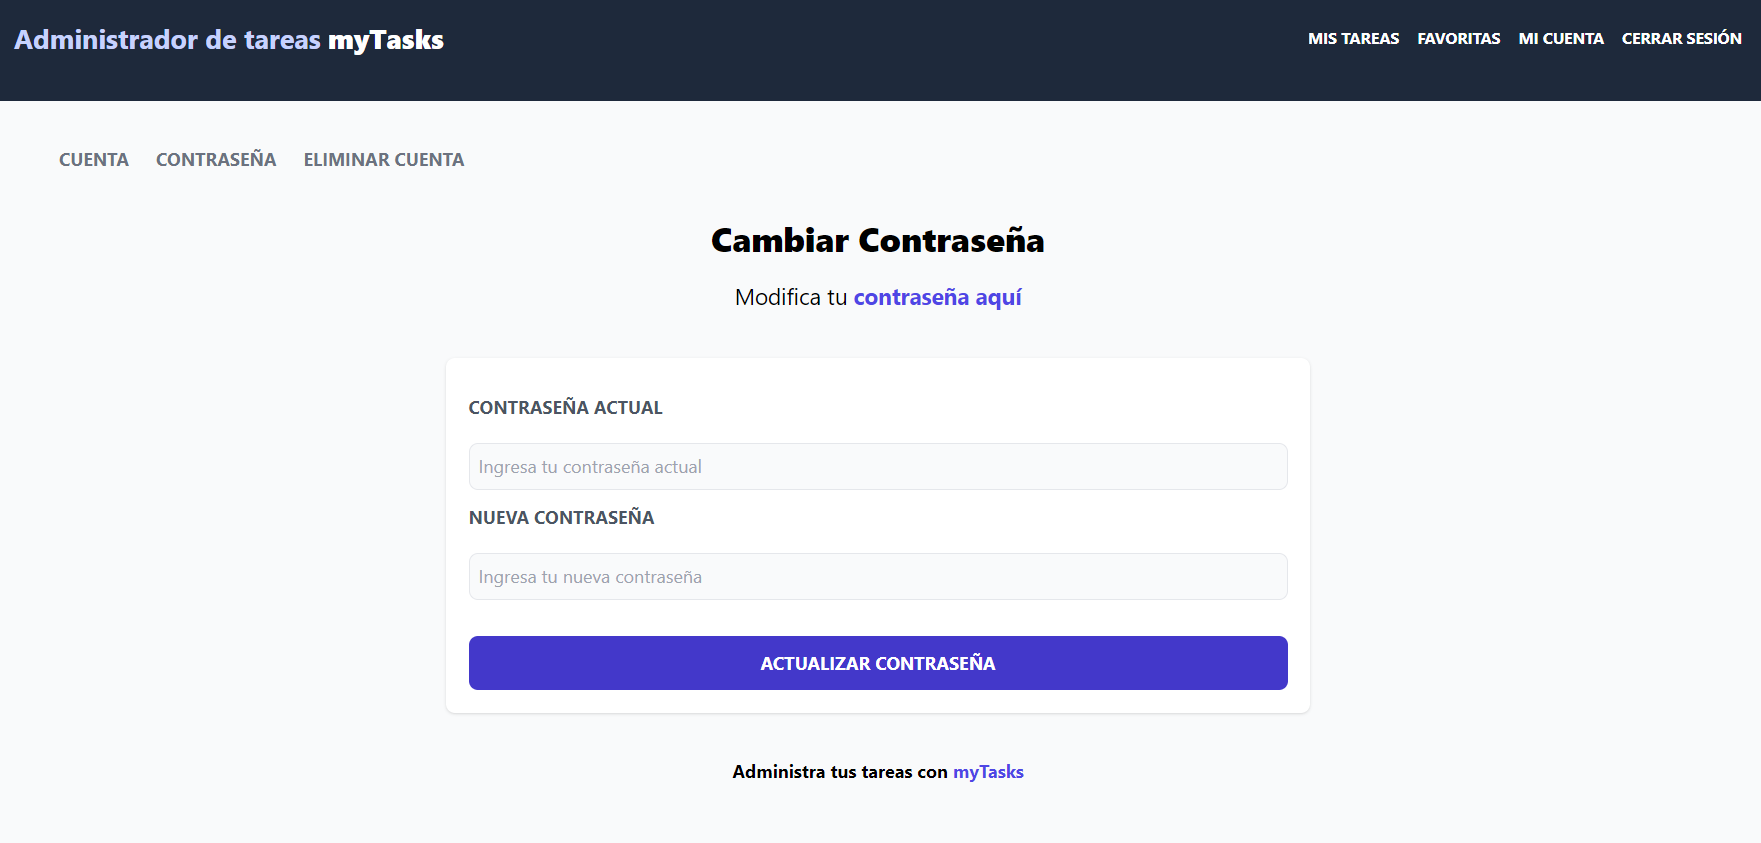
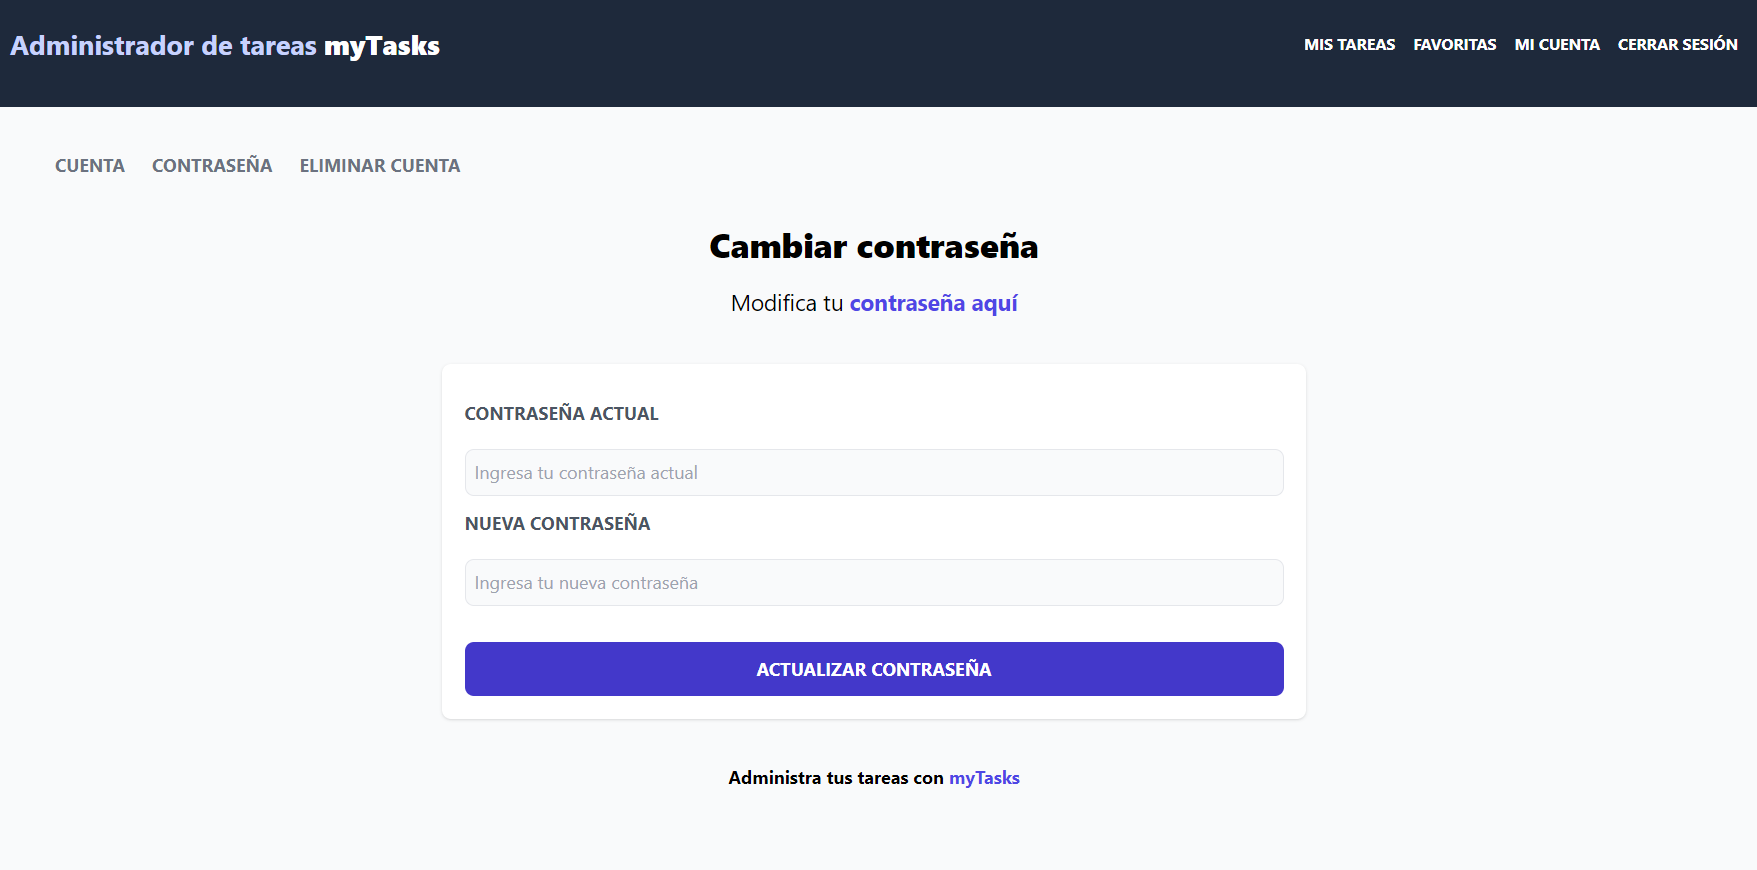
small design changes

diff --git a/src/webpages/ChangePassword.jsx b/src/webpages/ChangePassword.jsx
@@ -48,7 +48,7 @@ const changePassword = () => {
     return (
         <>
             <AdminNav />
-            <h2 className='font-black text-3xl text-center mt-10'>Cambiar Contraseña</h2>
+            <h2 className='font-black text-3xl text-center mt-10'>Cambiar contraseña</h2>
             <p className='text-xl mt-5 mb-10 text-center'>Modifica tu {''} 
                 <span className='text-indigo-600 font-bold'>contraseña aquí</span>
             </p>
@@ -62,7 +62,7 @@ const changePassword = () => {
                         onSubmit={ handleSubmit }
                     >
                         <div className='my-3'>
-                            <label htmlFor="name" className='uppercase font-bold text-gray-600'>Contraseña Actual</label>
+                            <label htmlFor="name" className='uppercase font-bold text-gray-600'>Contraseña actual</label>
                             <input 
                                 type="password"
                                 className='border bg-gray-50 w-full p-2 mt-5 rounded-lg'
@@ -75,7 +75,7 @@ const changePassword = () => {
                             />
                         </div>
                         <div className='my-3'>
-                            <label htmlFor="name" className='uppercase font-bold text-gray-600'>Nueva Contraseña</label>
+                            <label htmlFor="name" className='uppercase font-bold text-gray-600'>Nueva contraseña</label>
                             <input 
                                 type="password"
                                 className='border bg-gray-50 w-full p-2 mt-5 rounded-lg'

diff --git a/src/webpages/DeleteAccount.jsx b/src/webpages/DeleteAccount.jsx
@@ -33,9 +33,9 @@ const DeleteAccount = () => {
     return (
         <>
             <AdminNav />
-            <h2 className='font-black text-3xl text-center mt-10'>Eliminar Cuenta</h2>
-            <p className='text-xl mt-5 mb-10 text-center'>Elimina tu {''} 
-                <span className='text-indigo-600 font-bold'>cuenta aquí</span>
+            <h2 className='font-black text-3xl text-center mt-10'>Eliminar cuenta</h2>
+            <p className='text-xl mt-5 mb-10 text-center'>Elimina tu cuenta y todos tus datos {''} 
+                <span className='text-indigo-600 font-bold'>aquí</span>
             </p>
 
             <div className='flex justify-center'>
